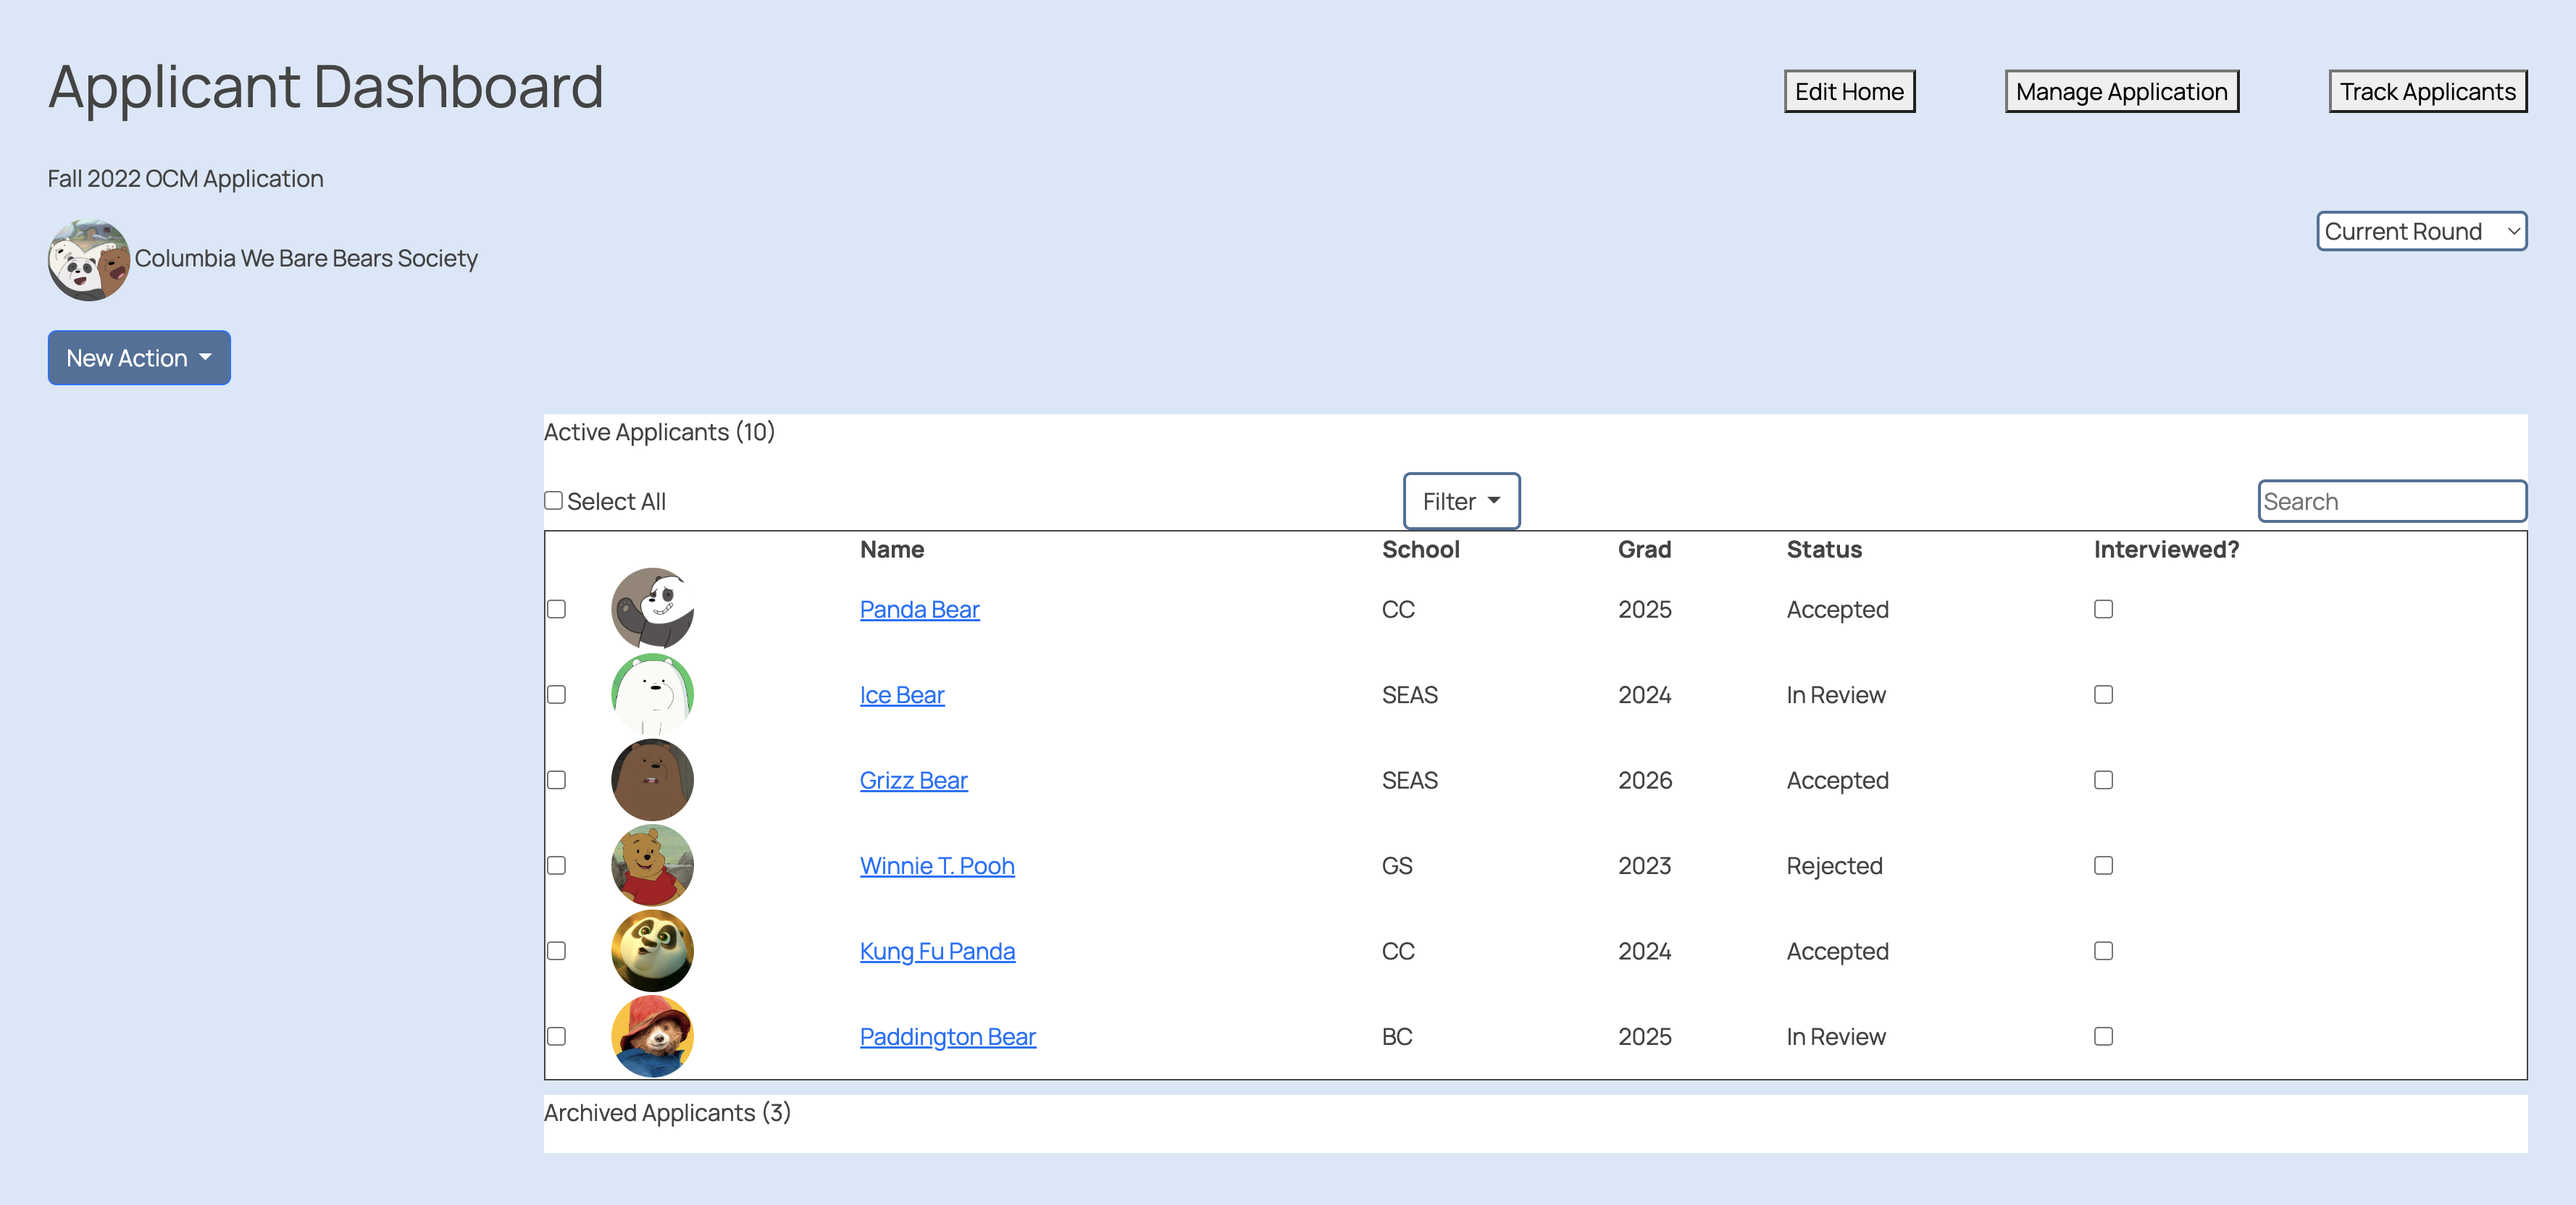
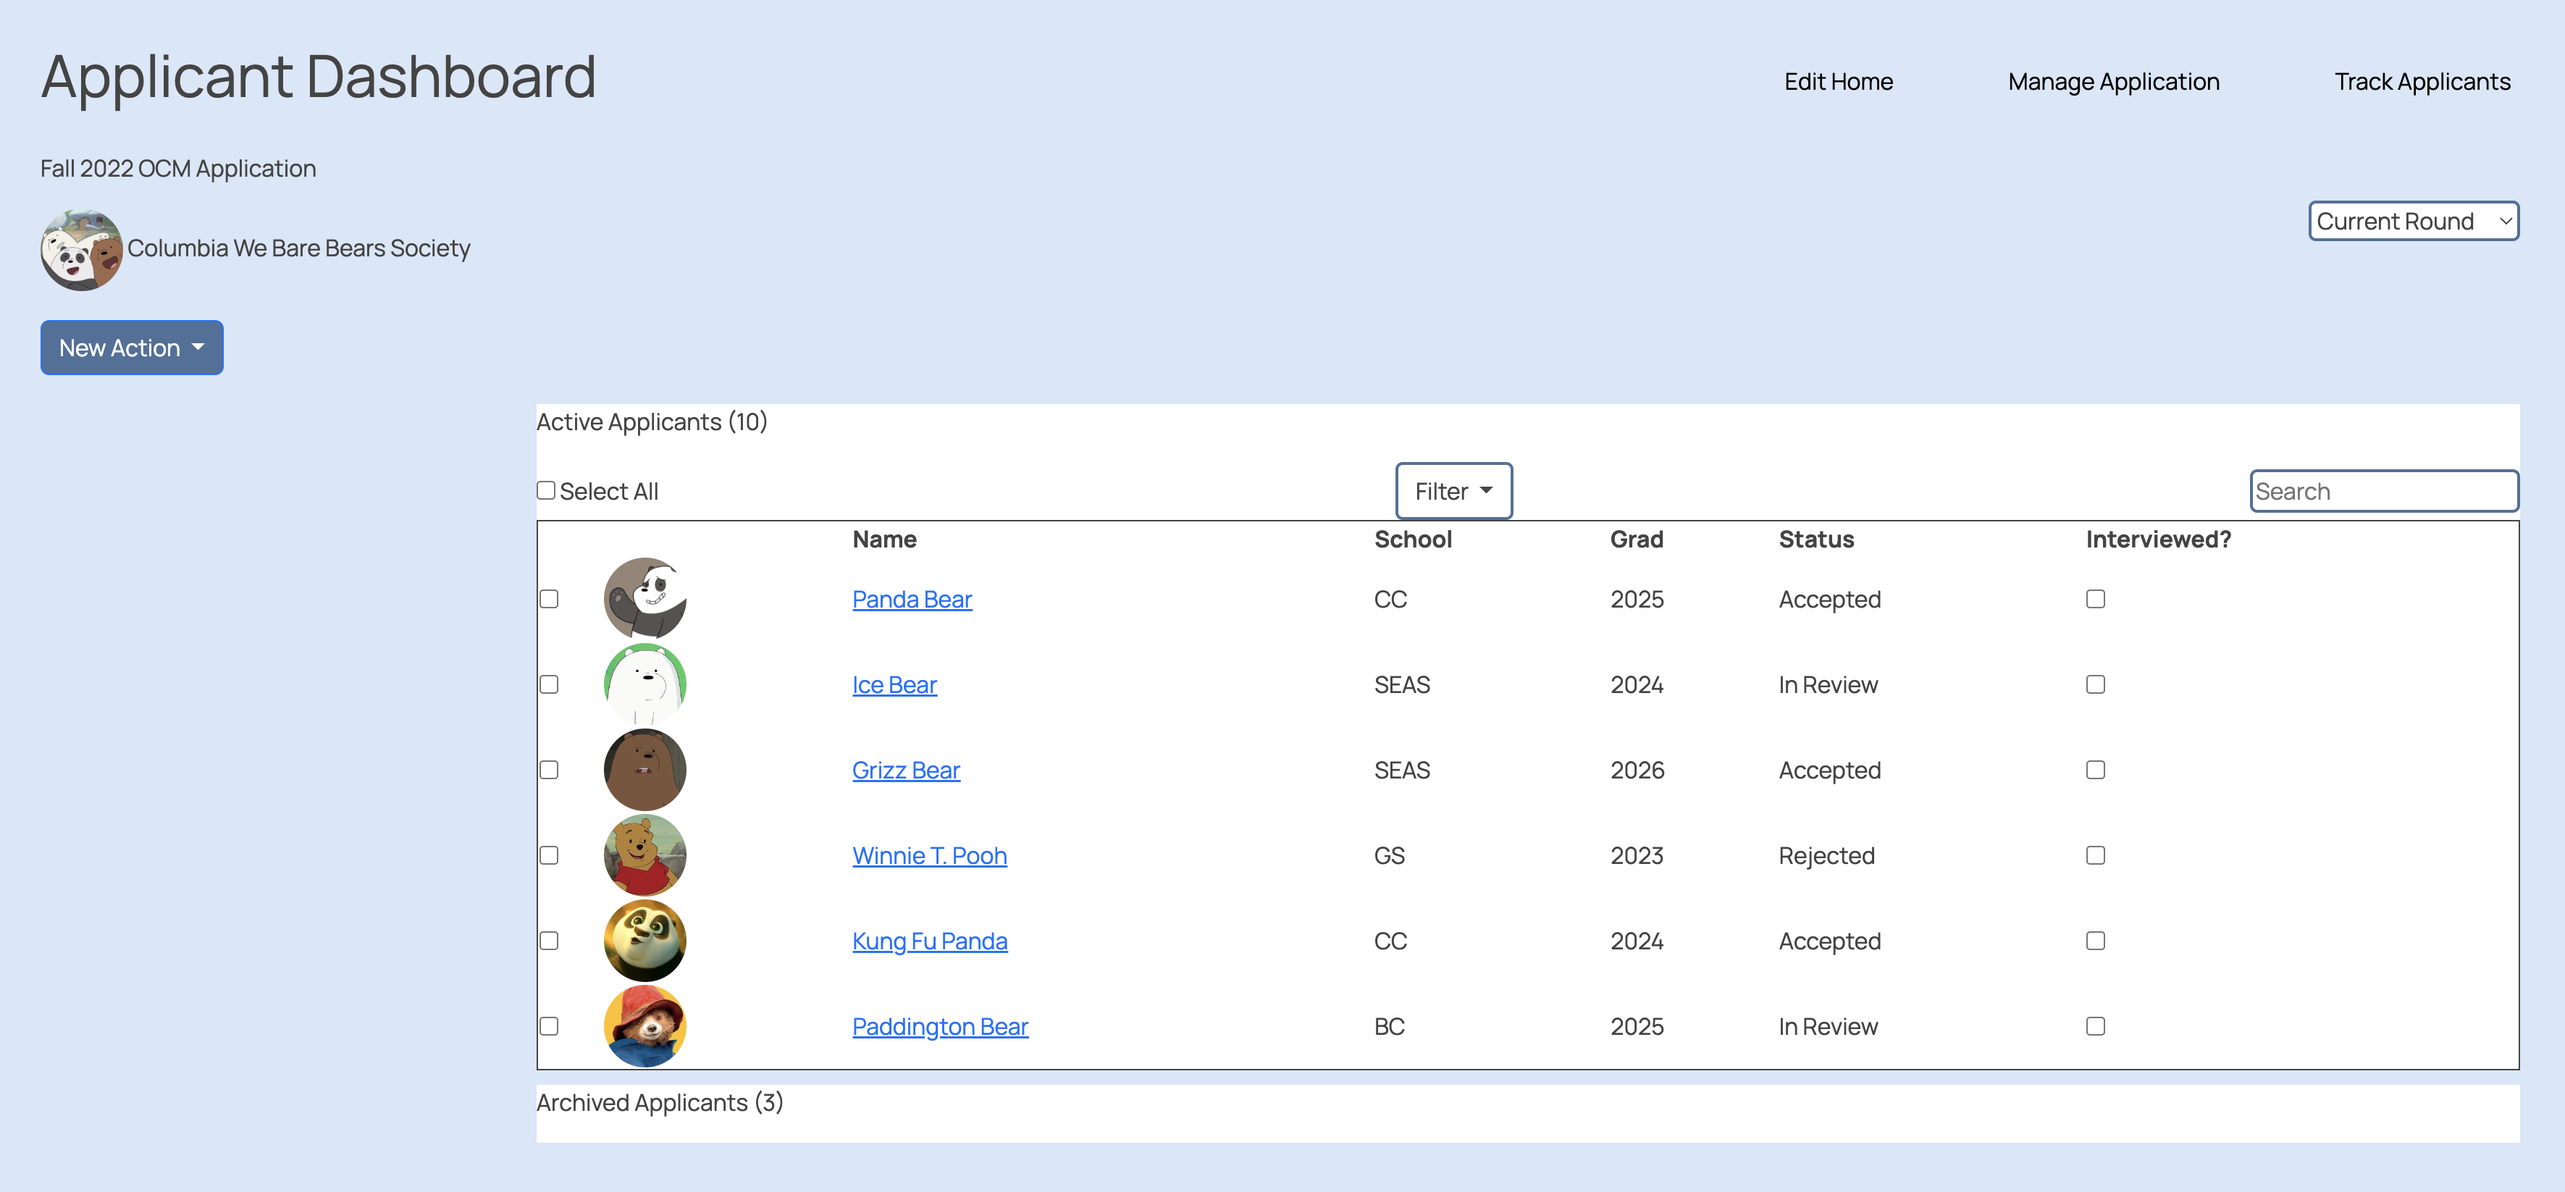
transparent tabs

diff --git a/templates/dashboard.html b/templates/dashboard.html
@@ -16,9 +16,9 @@
         <h1>Applicant Dashboard</h1>
       </div>
       <div id="tabs">
-          <button class="button">Edit Home</button>
-          <button class="button">Manage Application</button>
-          <button class="button">Track Applicants</button>
+          <button class="tablink">Edit Home</button>
+          <button class="tablink">Manage Application</button>
+          <button class="tablink">Track Applicants</button>
       </div>
     </div>
 

diff --git a/static/css/dashboard.css b/static/css/dashboard.css
@@ -115,9 +115,15 @@ img {
 .func {
   background-color: white;
   color: #444;
+  cursor: pointer;
   border: 2px solid;
   border-radius: 5px;
   border-color: #4E7099;
 }
 
+.tablink {
+  cursor: pointer;
+  border: none;
+  background-color: transparent;
+}
 
